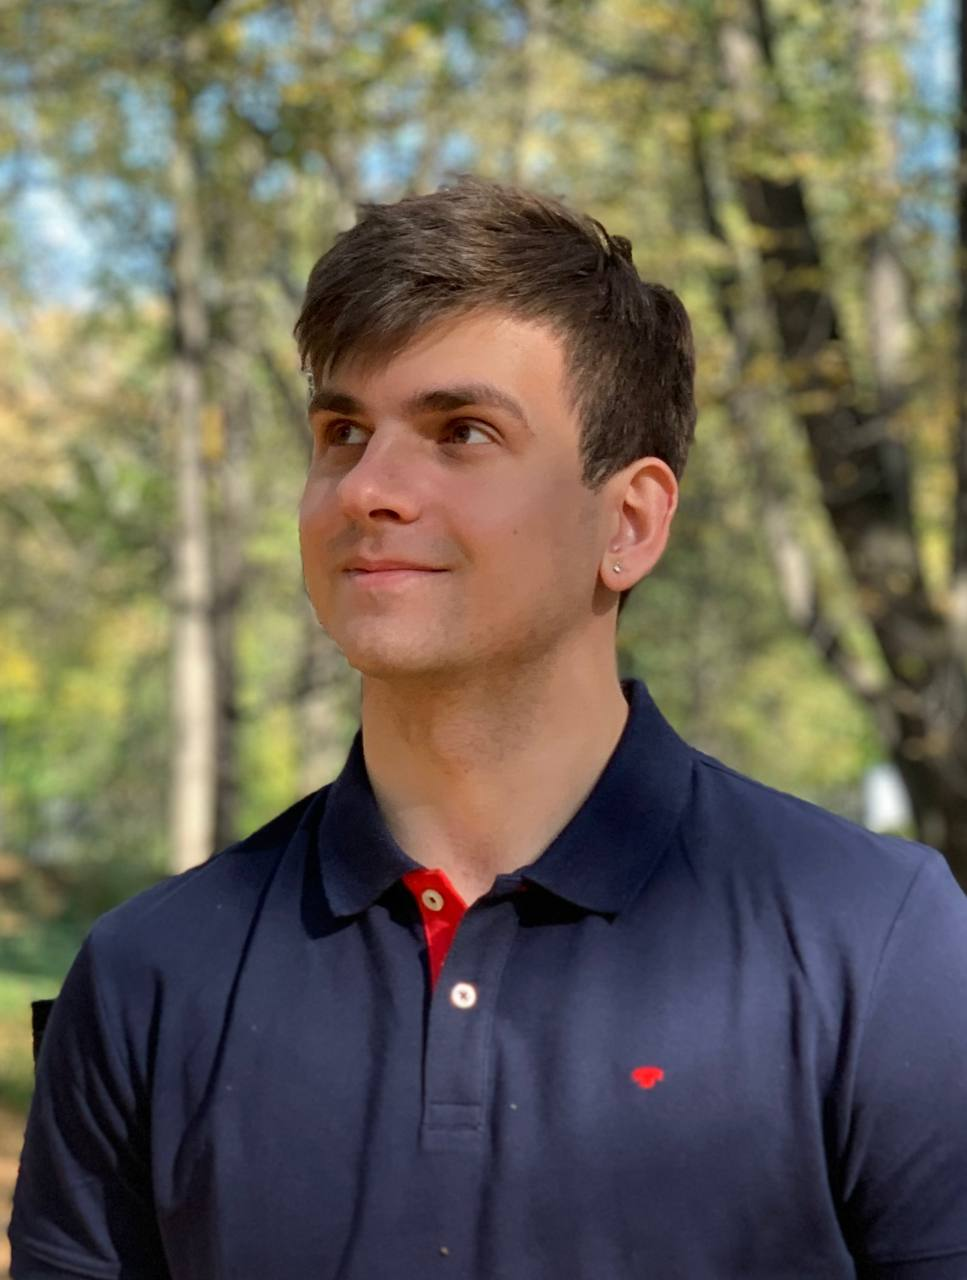
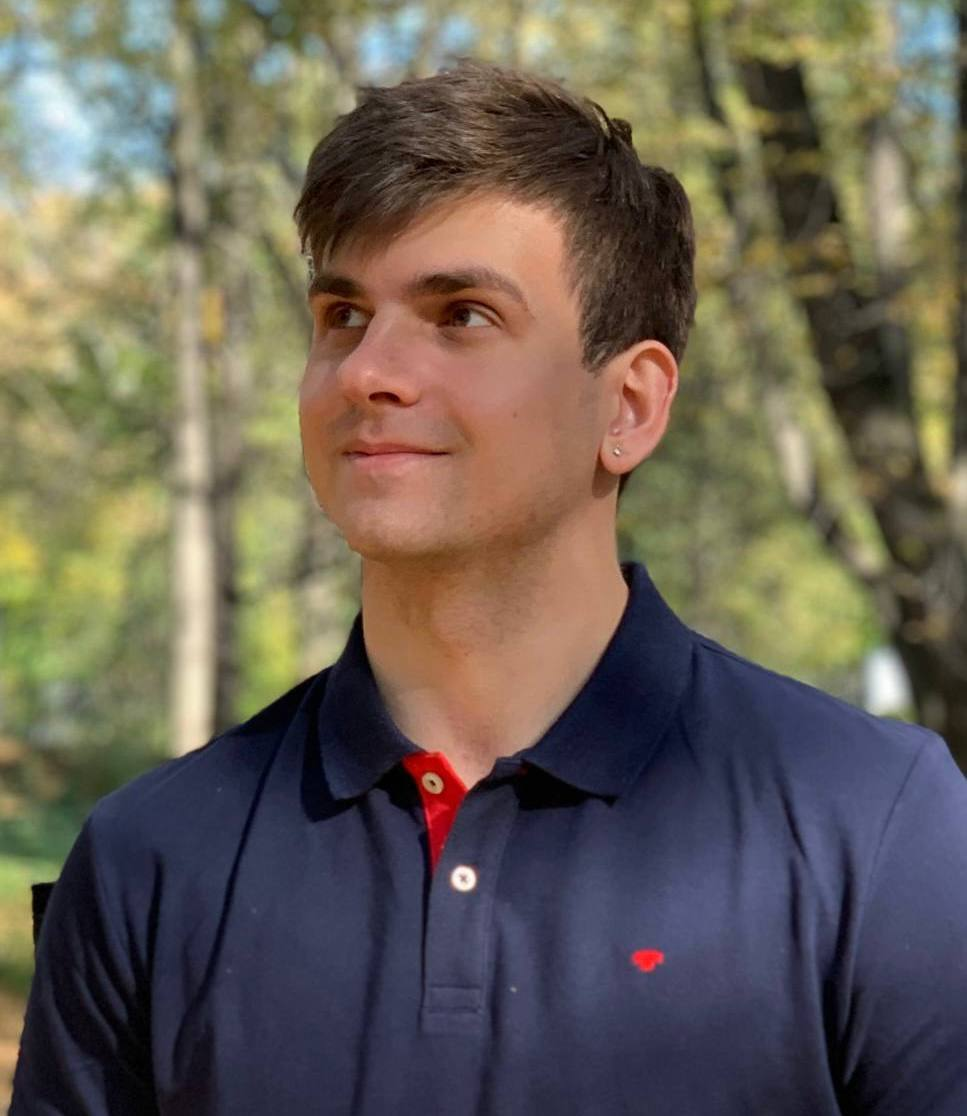
update 08.26

diff --git a/_pages/publications.md b/_pages/publications.md
@@ -11,7 +11,7 @@ nav_order: 1
 
 <!-- Bibsearch Feature -->
 
-<!-- {% include bib_search.liquid %} -->
+{% include bib_search.liquid %}
 
 <div class="publications">
 
